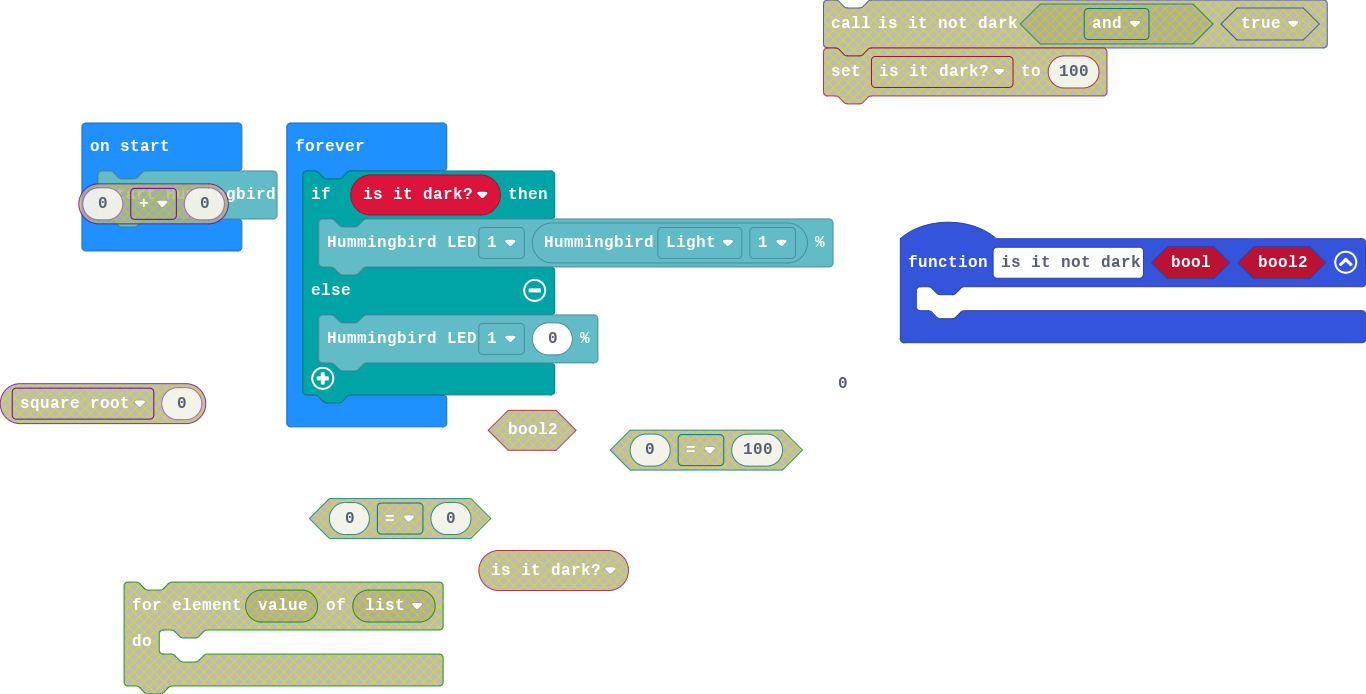
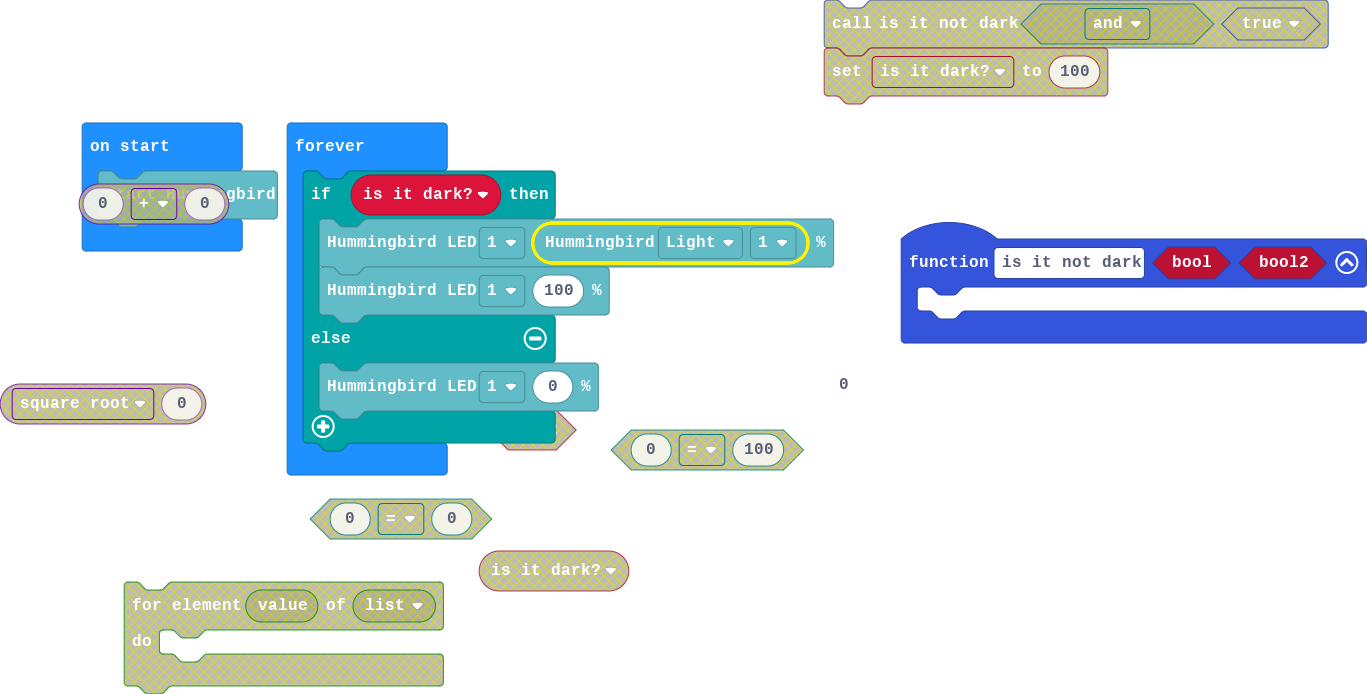
Update main.blocks, main.ts

diff --git a/main.ts b/main.ts
@@ -6,6 +6,7 @@ basic.forever(function () {
     let is_it_dark = 0
     if (is_it_dark) {
         hummingbird.setLED(ThreePort.One, hummingbird.getSensor(SensorType.Light, ThreePort.One))
+        hummingbird.setLED(ThreePort.One, 100)
     } else {
         hummingbird.setLED(ThreePort.One, 0)
     }
